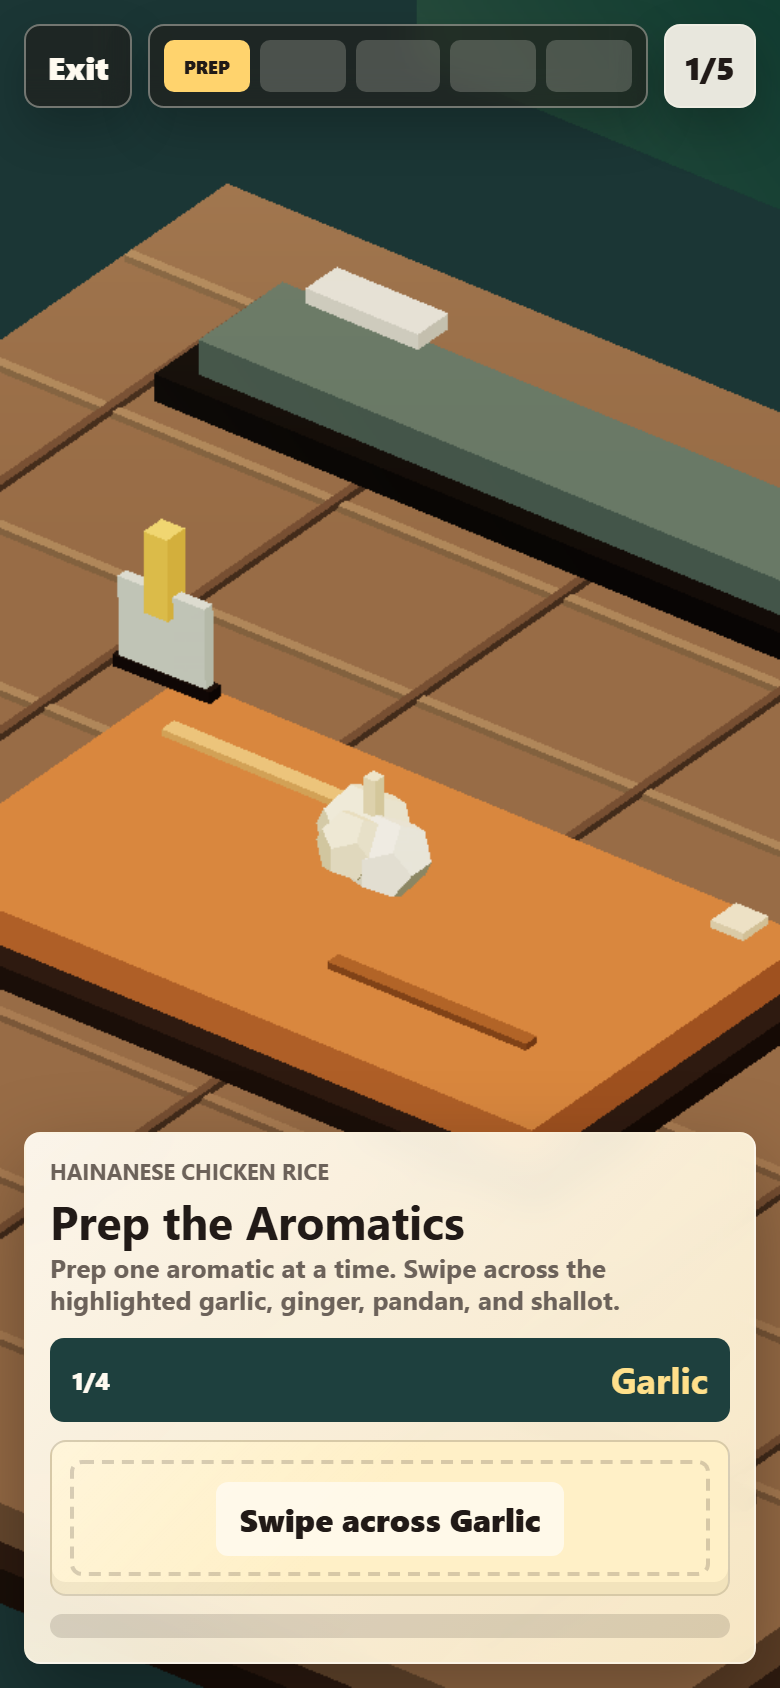
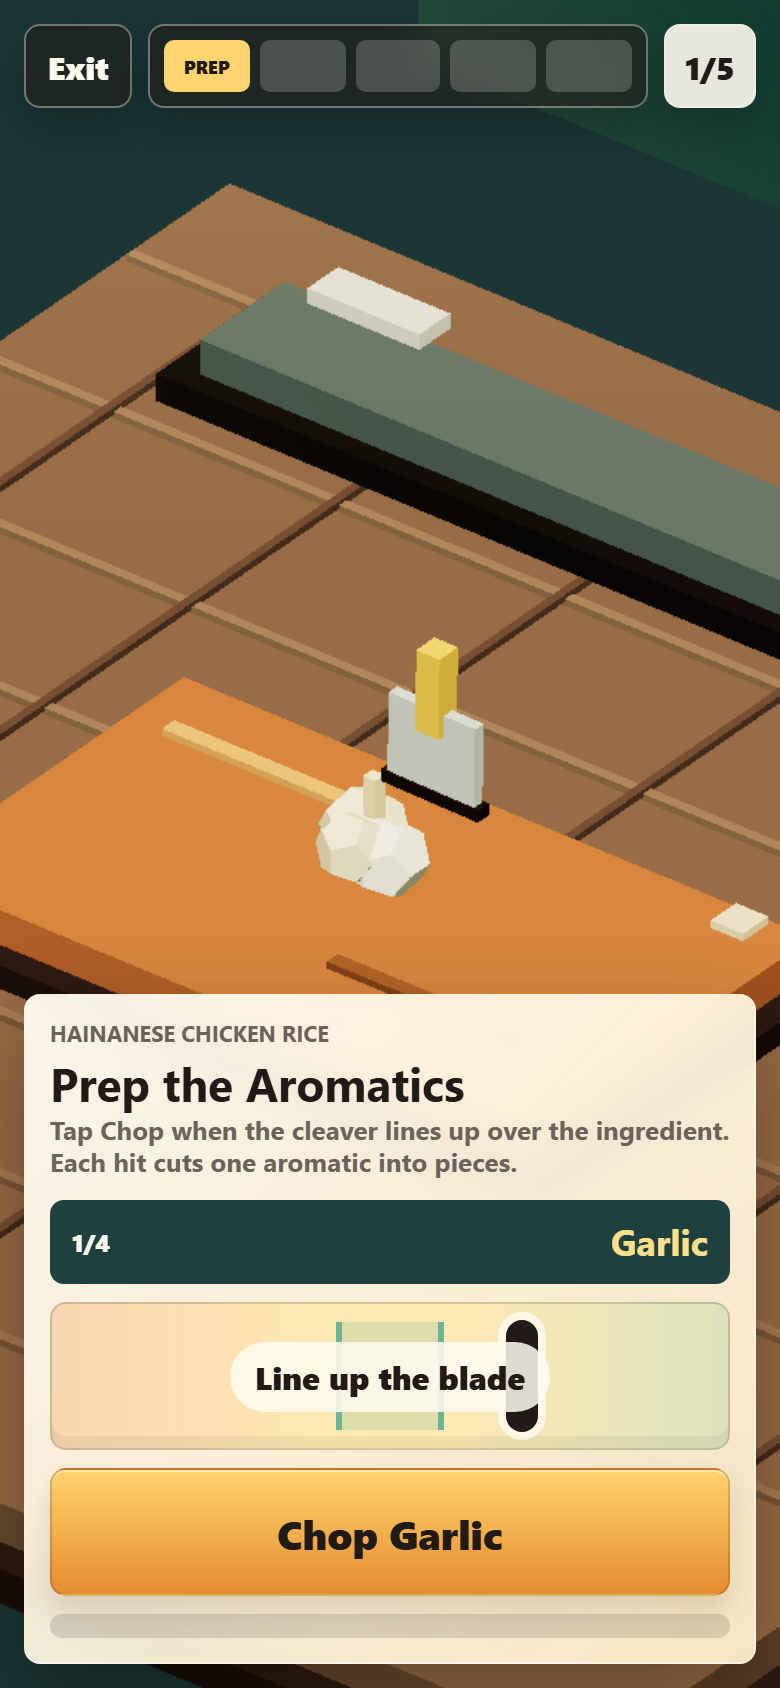
Clarify aromatic chopping minigame

diff --git a/src/App.tsx b/src/App.tsx
@@ -196,28 +196,60 @@ function MiniGame({
 function PrepGame({ onVisual, onFinish }: { onVisual: (patch: VisualState) => void; onFinish: (score: number) => void }) {
   const ingredients = ['Garlic', 'Ginger', 'Pandan', 'Shallot'];
   const [active, setActive] = useState(0);
-  const startRef = useRef<{ x: number; y: number } | null>(null);
   const [cuts, setCuts] = useState(0);
+  const [blade, setBlade] = useState(0.5);
+  const [cutting, setCutting] = useState(false);
+  const bladeRef = useRef(0.5);
   const scoresRef = useRef<number[]>([]);
   const startedAt = useRef(performance.now());
+  const roundStarted = useRef(performance.now());
 
   useEffect(() => {
     onVisual({ prepCuts: cuts, prepActive: active });
   }, [active, cuts, onVisual]);
 
-  const slice = (distance: number) => {
-    if (active >= ingredients.length) return;
-    const quality = clamp(distance / 150, 0.65, 1);
+  useEffect(() => {
+    let raf = 0;
+    let last = 0;
+    const tick = (now: number) => {
+      if (!cutting && now - last > 33) {
+        last = now;
+        const phase = ((now - roundStarted.current) % 1800) / 1800;
+        const next = phase < 0.5 ? phase * 2 : 2 - phase * 2;
+        bladeRef.current = next;
+        setBlade(next);
+        onVisual({ prepBlade: next });
+      }
+      raf = requestAnimationFrame(tick);
+    };
+    raf = requestAnimationFrame(tick);
+    return () => cancelAnimationFrame(raf);
+  }, [cutting, onVisual]);
+
+  const chop = () => {
+    if (active >= ingredients.length || cutting) return;
+    const accuracy = 1 - Math.min(1, Math.abs(bladeRef.current - 0.5) / 0.5);
+    const quality = clamp(0.72 + accuracy * 0.28, 0.72, 1);
     scoresRef.current.push(quality);
     const next = active + 1;
+    setCutting(true);
     setCuts(next);
-    setActive(next);
-    onVisual({ prepCuts: next, prepActive: next, pulse: performance.now() });
-    if (next >= ingredients.length) {
-      const elapsed = performance.now() - startedAt.current;
-      const speed = elapsed < 6500 ? 1 : elapsed < 9500 ? 0.9 : 0.78;
-      window.setTimeout(() => onFinish(avg(scoresRef.current) * speed), 360);
-    }
+    onVisual({ prepCuts: next, prepActive: active, prepBlade: bladeRef.current, prepChop: performance.now(), pulse: performance.now() });
+
+    window.setTimeout(() => {
+      if (next >= ingredients.length) {
+        const elapsed = performance.now() - startedAt.current;
+        const speed = elapsed < 9000 ? 1 : elapsed < 12500 ? 0.92 : 0.82;
+        onFinish(avg(scoresRef.current) * speed);
+        return;
+      }
+      setActive(next);
+      setCutting(false);
+      roundStarted.current = performance.now();
+      bladeRef.current = 0.5;
+      setBlade(0.5);
+      onVisual({ prepCuts: next, prepActive: next, prepBlade: 0.5 });
+    }, 520);
   };
 
   return (
@@ -226,28 +258,14 @@ function PrepGame({ onVisual, onFinish }: { onVisual: (patch: VisualState) => vo
         <span>{Math.min(active + 1, ingredients.length)}/{ingredients.length}</span>
         <strong>{ingredients[active] ?? 'Ready'}</strong>
       </div>
-      <div
-        className="gesture-pad prep-pad"
-        data-testid="prep-pad"
-        onPointerDown={(event) => {
-          event.preventDefault();
-          event.currentTarget.setPointerCapture(event.pointerId);
-          startRef.current = { x: event.clientX, y: event.clientY };
-        }}
-        onPointerUp={(event) => {
-          event.preventDefault();
-          const start = startRef.current;
-          if (!start) return;
-          const distance = Math.hypot(event.clientX - start.x, event.clientY - start.y);
-          startRef.current = null;
-          if (distance > 48) slice(distance);
-        }}
-        onPointerCancel={() => {
-          startRef.current = null;
-        }}
-      >
-        <span>Swipe across {ingredients[active] ?? 'the board'}</span>
+      <div className="chop-timing" data-testid="chop-timing">
+        <i className="target-zone" />
+        <b style={{ left: `calc(${blade * 100}% - 8px)` }} />
+        <span>Line up the blade</span>
       </div>
+      <button className="chop-button" data-testid="chop-button" onClick={chop} disabled={cutting}>
+        {cutting ? 'Chopped!' : `Chop ${ingredients[active] ?? ''}`}
+      </button>
       <ProgressBar value={cuts / ingredients.length} />
     </div>
   );

diff --git a/src/VoxelCanvas.tsx b/src/VoxelCanvas.tsx
@@ -8,6 +8,8 @@ export interface VisualState {
   pulse?: number;
   prepCuts?: number;
   prepActive?: number;
+  prepBlade?: number;
+  prepChop?: number;
   stirProgress?: number;
   stirTurns?: number;
   simmerHeat?: number;
@@ -496,6 +498,8 @@ function updateDynamics(d: DynamicRefs, state: VisualState, t: number) {
   const prepCuts = state.prepCuts ?? 0;
   const prepActive = state.prepActive ?? Math.min(prepCuts, 3);
   const prepCenters = [-1.15, -0.35, 0.45, 1.2];
+  const chopAge = state.prepChop ? t - state.prepChop / 1000 : 999;
+  const recentChop = chopAge >= 0 && chopAge < 0.58;
   d.prepIngredients.forEach((parts, i) => {
     const done = i < prepCuts;
     const visible = i === prepActive && !done;
@@ -510,13 +514,25 @@ function updateDynamics(d: DynamicRefs, state: VisualState, t: number) {
     });
   });
   d.prepChopped.forEach((bit, i) => {
-    bit.visible = Math.floor(i / 5) < prepCuts;
+    const ingredient = Math.floor(i / 5);
+    const piece = i % 5;
+    const base = basePosition(bit);
+    const scale = baseScale(bit);
+    const showCenter = recentChop && ingredient === prepActive;
+    bit.visible = ingredient < prepCuts;
+    bit.position.set(
+      showCenter ? (piece - 2) * 0.11 : base.x,
+      base.y + (showCenter ? 0.08 + Math.sin(t * 10 + i) * 0.025 : 0),
+      showCenter ? 0.2 + (piece % 2) * 0.12 : base.z,
+    );
+    bit.scale.set(scale.x * (showCenter ? 1.35 : 1), scale.y, scale.z * (showCenter ? 1.35 : 1));
     bit.rotation.y = t * 0.6 + i;
   });
   if (d.cleaver) {
-    const active = state.prepActive ?? Math.min(prepCuts, 3);
-    d.cleaver.position.set(-1.15 + active * 0.78, 0.1 + Math.abs(Math.sin(t * 5)) * 0.08, 0);
-    d.cleaver.rotation.z = Math.sin(t * 8) * 0.03;
+    const blade = state.prepBlade ?? 0.5;
+    const drop = recentChop && chopAge < 0.18 ? 0.38 * (1 - chopAge / 0.18) : 0;
+    d.cleaver.position.set(-0.78 + blade * 1.56, 0.1 + Math.abs(Math.sin(t * 5)) * 0.05 - drop, 0);
+    d.cleaver.rotation.z = Math.sin(t * 8) * 0.025;
   }
 
   const stir = state.stirProgress ?? 0;

diff --git a/src/styles.css b/src/styles.css
@@ -176,7 +176,8 @@ p {
 .exit-button:active,
 .token-grid button:active,
 .bubble-button:active,
-.mortar-pad:active {
+.mortar-pad:active,
+.chop-button:active {
   transform: translateY(2px) scale(0.99);
 }
 
@@ -301,7 +302,9 @@ p {
 .gesture-pad,
 .mortar-pad,
 .bubble-button,
-.plate-drop {
+.plate-drop,
+.chop-timing,
+.chop-button {
   min-height: 78px;
   display: grid;
   place-items: center;
@@ -314,6 +317,53 @@ p {
   touch-action: none;
   text-align: center;
   font-weight: 950;
+}
+
+.chop-timing {
+  position: relative;
+  min-height: 74px;
+  overflow: hidden;
+  background:
+    linear-gradient(90deg, rgba(214, 83, 58, 0.16), rgba(255, 211, 109, 0.22) 42% 58%, rgba(47, 159, 137, 0.16)),
+    #fff0c7;
+}
+
+.chop-timing .target-zone {
+  position: absolute;
+  top: 9px;
+  bottom: 9px;
+  left: 42%;
+  width: 16%;
+  border-inline: 3px solid rgba(47, 159, 137, 0.65);
+  background: rgba(47, 159, 137, 0.16);
+}
+
+.chop-timing b {
+  position: absolute;
+  top: 8px;
+  bottom: 8px;
+  width: 16px;
+  border-radius: 999px;
+  background: var(--ink);
+  box-shadow: 0 0 0 4px rgba(255, 255, 255, 0.64);
+}
+
+.chop-timing span {
+  position: relative;
+  padding: 7px 12px;
+  border-radius: 999px;
+  background: rgba(255, 250, 240, 0.86);
+}
+
+.chop-button {
+  min-height: 64px;
+  background: linear-gradient(180deg, #ffd36d, #e58c31);
+  box-shadow: inset 0 1px rgba(255, 255, 255, 0.42), 0 8px 14px rgba(80, 55, 28, 0.16);
+  font-size: 20px;
+}
+
+.chop-button:disabled {
+  opacity: 0.72;
 }
 
 .prep-pad,
@@ -604,7 +654,8 @@ p {
 
   .gesture-pad,
   .mortar-pad,
-  .bubble-button {
+  .bubble-button,
+  .chop-timing {
     min-height: 64px;
   }
 

diff --git a/src/gameData.ts b/src/gameData.ts
@@ -33,7 +33,7 @@ export const CHICKEN_RICE: DishDefinition = {
       kind: 'prep',
       title: 'Prep the Aromatics',
       shortTitle: 'Prep',
-      instruction: 'Prep one aromatic at a time. Swipe across the highlighted garlic, ginger, pandan, and shallot.',
+      instruction: 'Tap Chop when the cleaver lines up over the ingredient. Each hit cuts one aromatic into pieces.',
       lesson: 'Garlic, ginger, pandan, and shallot perfume both the broth and the chicken-fat rice.',
       target: 4,
     },
